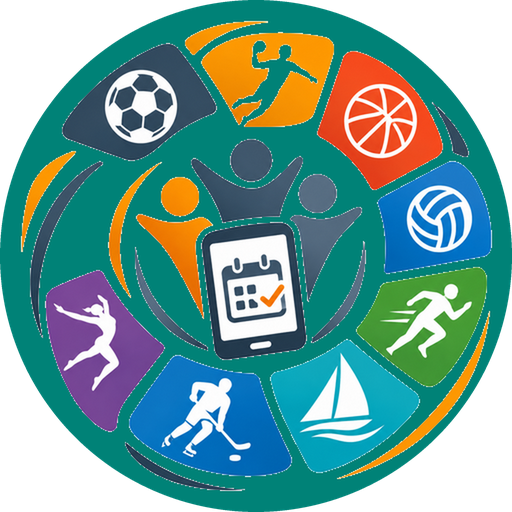
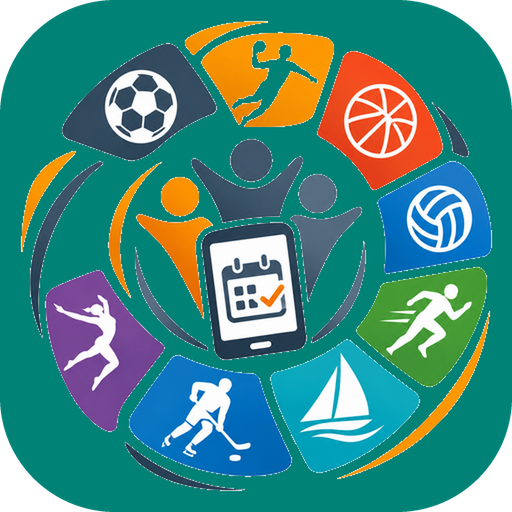
Version unique (version.js) lue par le service worker + nouveautes/bandeau ; icônes Gestion AS arrondies
Claude-Session: https://claude.ai/code/session_01DWMzvDjuQqdn6i5FnQMur8

diff --git a/sw.js b/sw.js
@@ -1,4 +1,5 @@
-const C='as-pronote-v10',F=['footer.js','nouveautes.js','nouveautes.json','./','index.html','style.css','app.js','manifest.json','confidentialite.html','contact.html','logo.png','logo-transparent.png','logo_pronote.png','Logo_UNSS.png','icon-192.png',
+importScripts('version.js');
+const C='as-pronote-v'+APP_VERSION,F=['version.js','footer.js','nouveautes.js','nouveautes.json','./','index.html','style.css','app.js','manifest.json','confidentialite.html','contact.html','logo.png','logo-transparent.png','logo_pronote.png','Logo_UNSS.png','icon-192.png',
 'lib/qrcode-generator-1.4.4.js','lib/jsQR-1.4.0.js','lib/jspdf-2.5.1.umd.min.js'];
 self.addEventListener('install',e=>e.waitUntil(caches.open(C).then(c=>Promise.all(F.map(u=>c.add(u).catch(()=>0)))).then(()=>self.skipWaiting())));
 self.addEventListener('activate',e=>e.waitUntil(caches.keys().then(k=>Promise.all(k.filter(x=>x!==C).map(x=>caches.delete(x)))).then(()=>clients.claim())));

diff --git a/index.html b/index.html
@@ -4,6 +4,7 @@
 <title>Gestion AS Pronote</title>
 <link rel="manifest" href="manifest.json"><meta name="theme-color" content="#008277">
 <link rel="icon" href="icon-192.png"><link rel="apple-touch-icon" href="icon-maskable-192.png">
+<script src="version.js"></script>
 <script>addEventListener("beforeinstallprompt",function(e){e.preventDefault();window.dip=e;dispatchEvent(new Event("dipready"))})</script>
 <link rel="stylesheet" href="style.css?v=5">
 <style id="titre-moderne">/* Titre en casse mixte + logo mis en valeur, aux couleurs du logo */

diff --git a/version.js b/version.js
@@ -1,0 +1,1 @@
+const APP_VERSION="1.1.1"; // ← seul endroit à modifier pour changer la version (cache hors ligne + détection des mises à jour)
